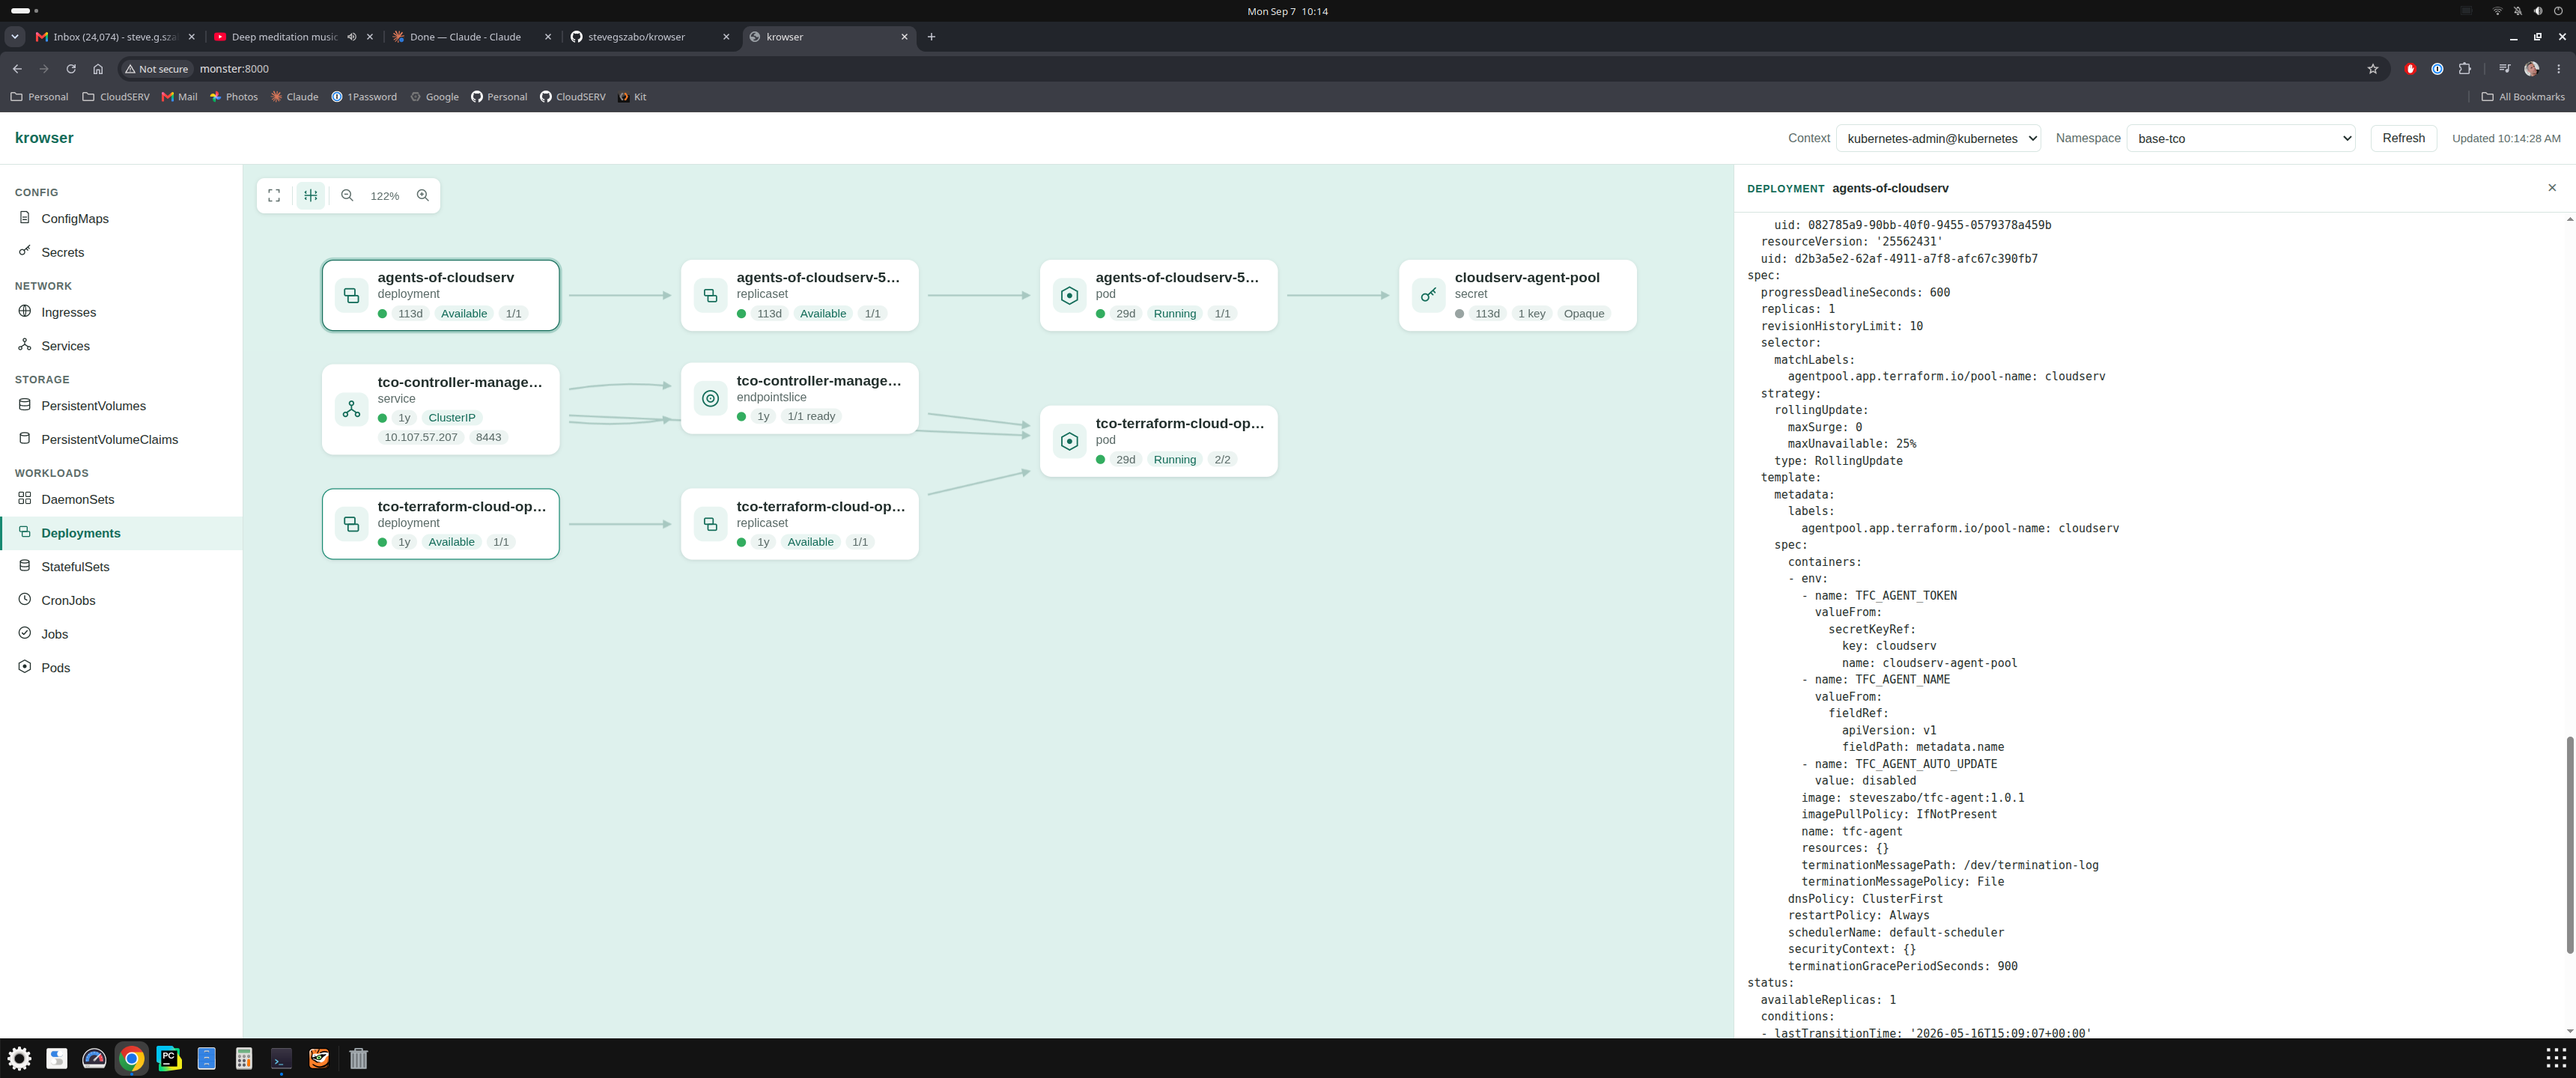
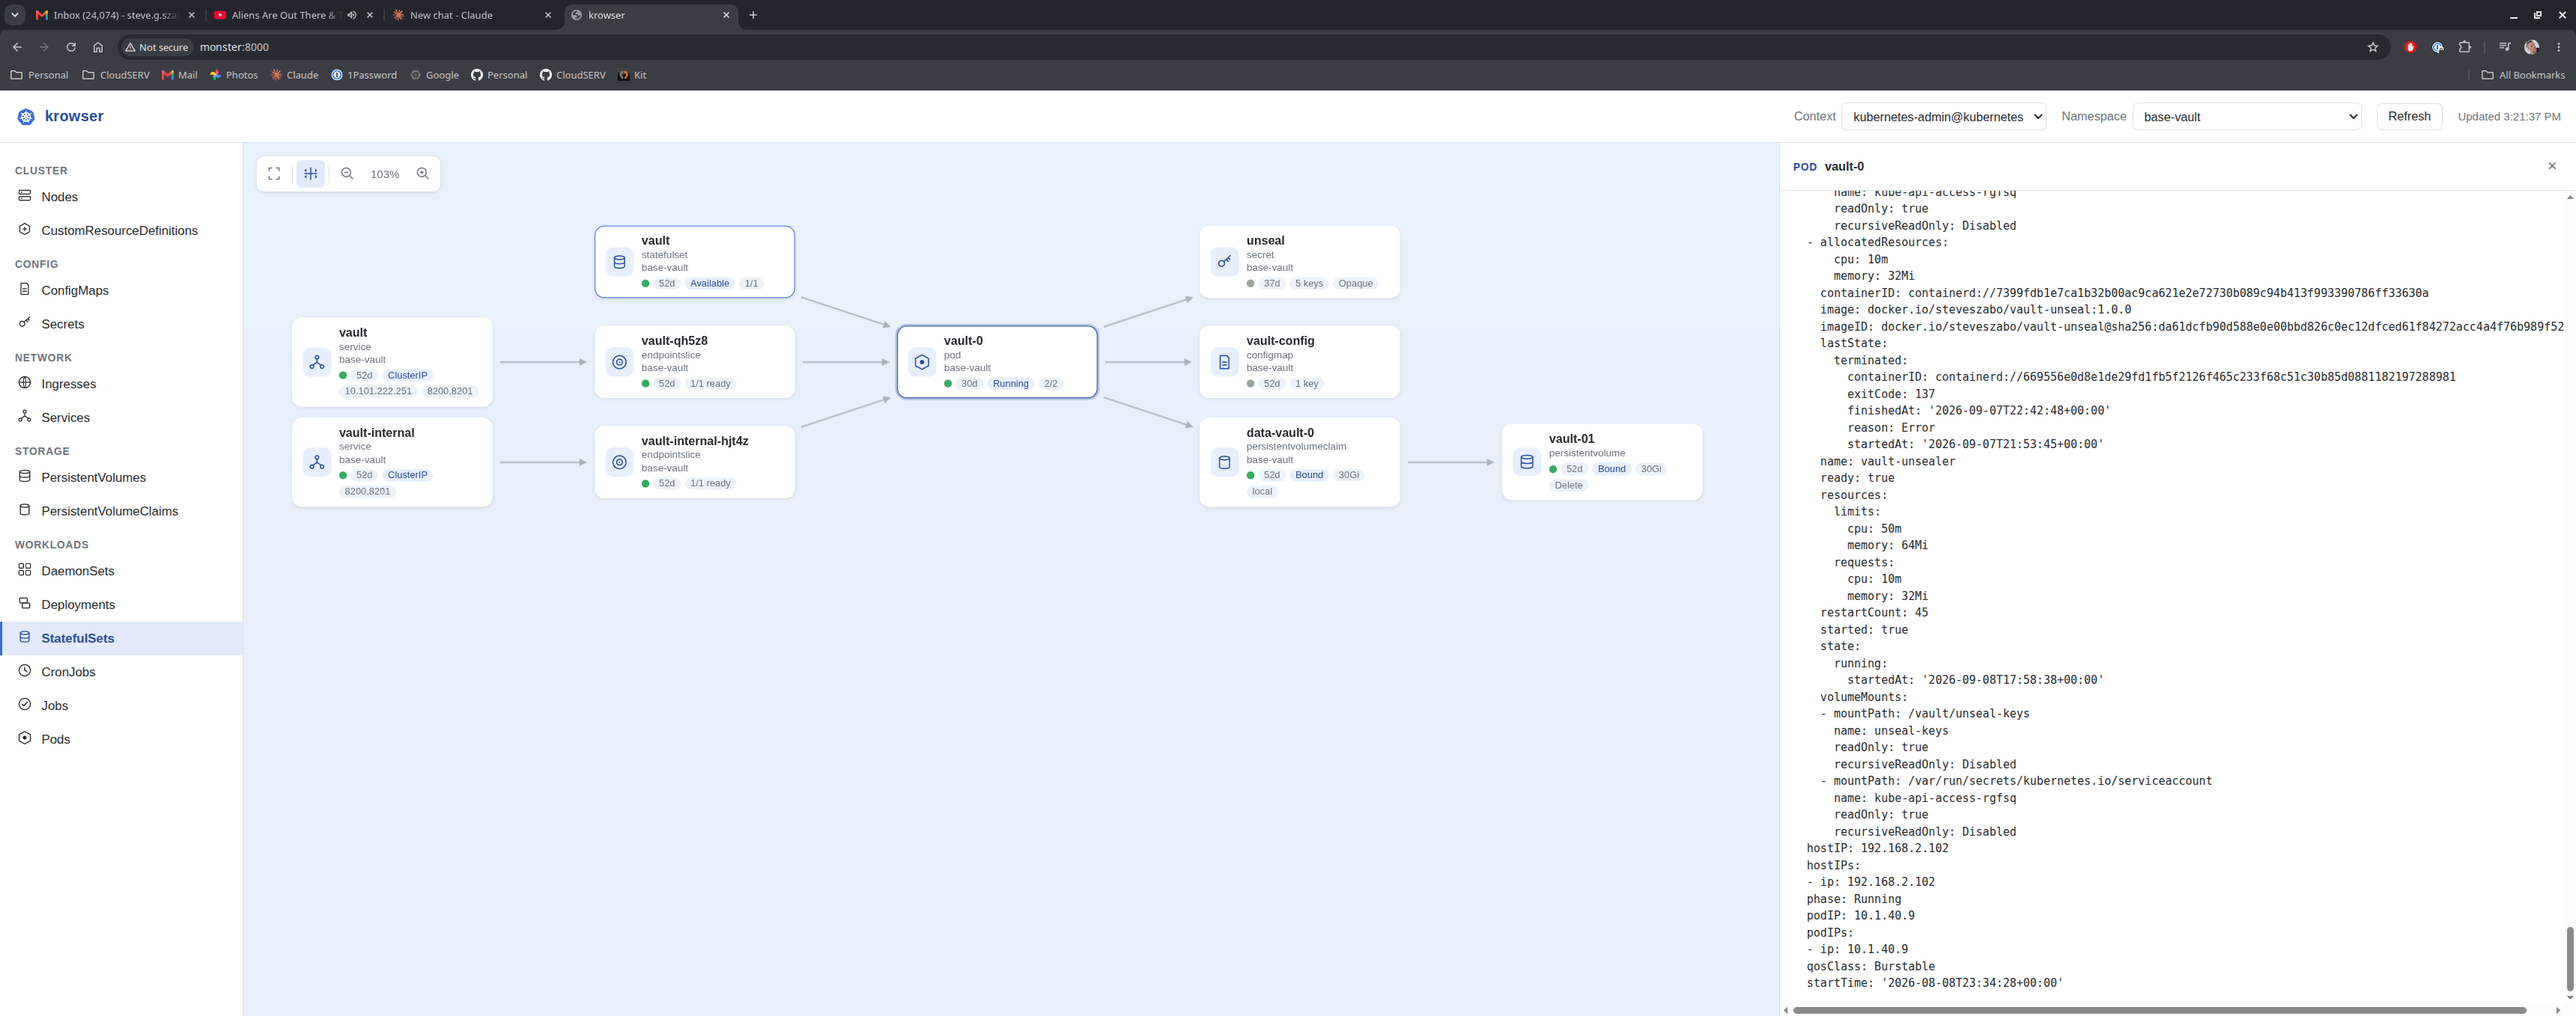
updates

Changed region(s): [[0.0, 0.0, 1.0, 1.0], [0.9953, 0.1856, 1.0, 0.2165]]

diff --git a/README.md b/README.md
@@ -4,11 +4,8 @@ A web app for browsing the resources in a Kubernetes cluster and how they relate
 
 ## Screenshots
 
-![Deployments view with the YAML detail pane open on a Deployment](krowser-01.png)
-*Deployments view (`base-tco` namespace) — Deployment → ReplicaSet → Pod ownership chain, with the resizable read-only YAML pane open.*
-
-![StatefulSets view showing the full relationship graph for a vault StatefulSet](krowser-02.png)
-*StatefulSets view (`base-vault` namespace) — Services and EndpointSlices routing to the pod, alongside the Secret, ConfigMap, and PersistentVolumeClaim/PersistentVolume it uses.*
+![StatefulSets view showing the full relationship graph for a vault StatefulSet, with the YAML detail pane open on a pod](krowser-01.png)
+*StatefulSets view (`base-vault` namespace) — Services and EndpointSlices routing to the `vault-0` pod, alongside the ConfigMap, Secret, and PersistentVolumeClaim/PersistentVolume it uses, with the resizable read-only YAML pane open.*
 
 ## Features
 
